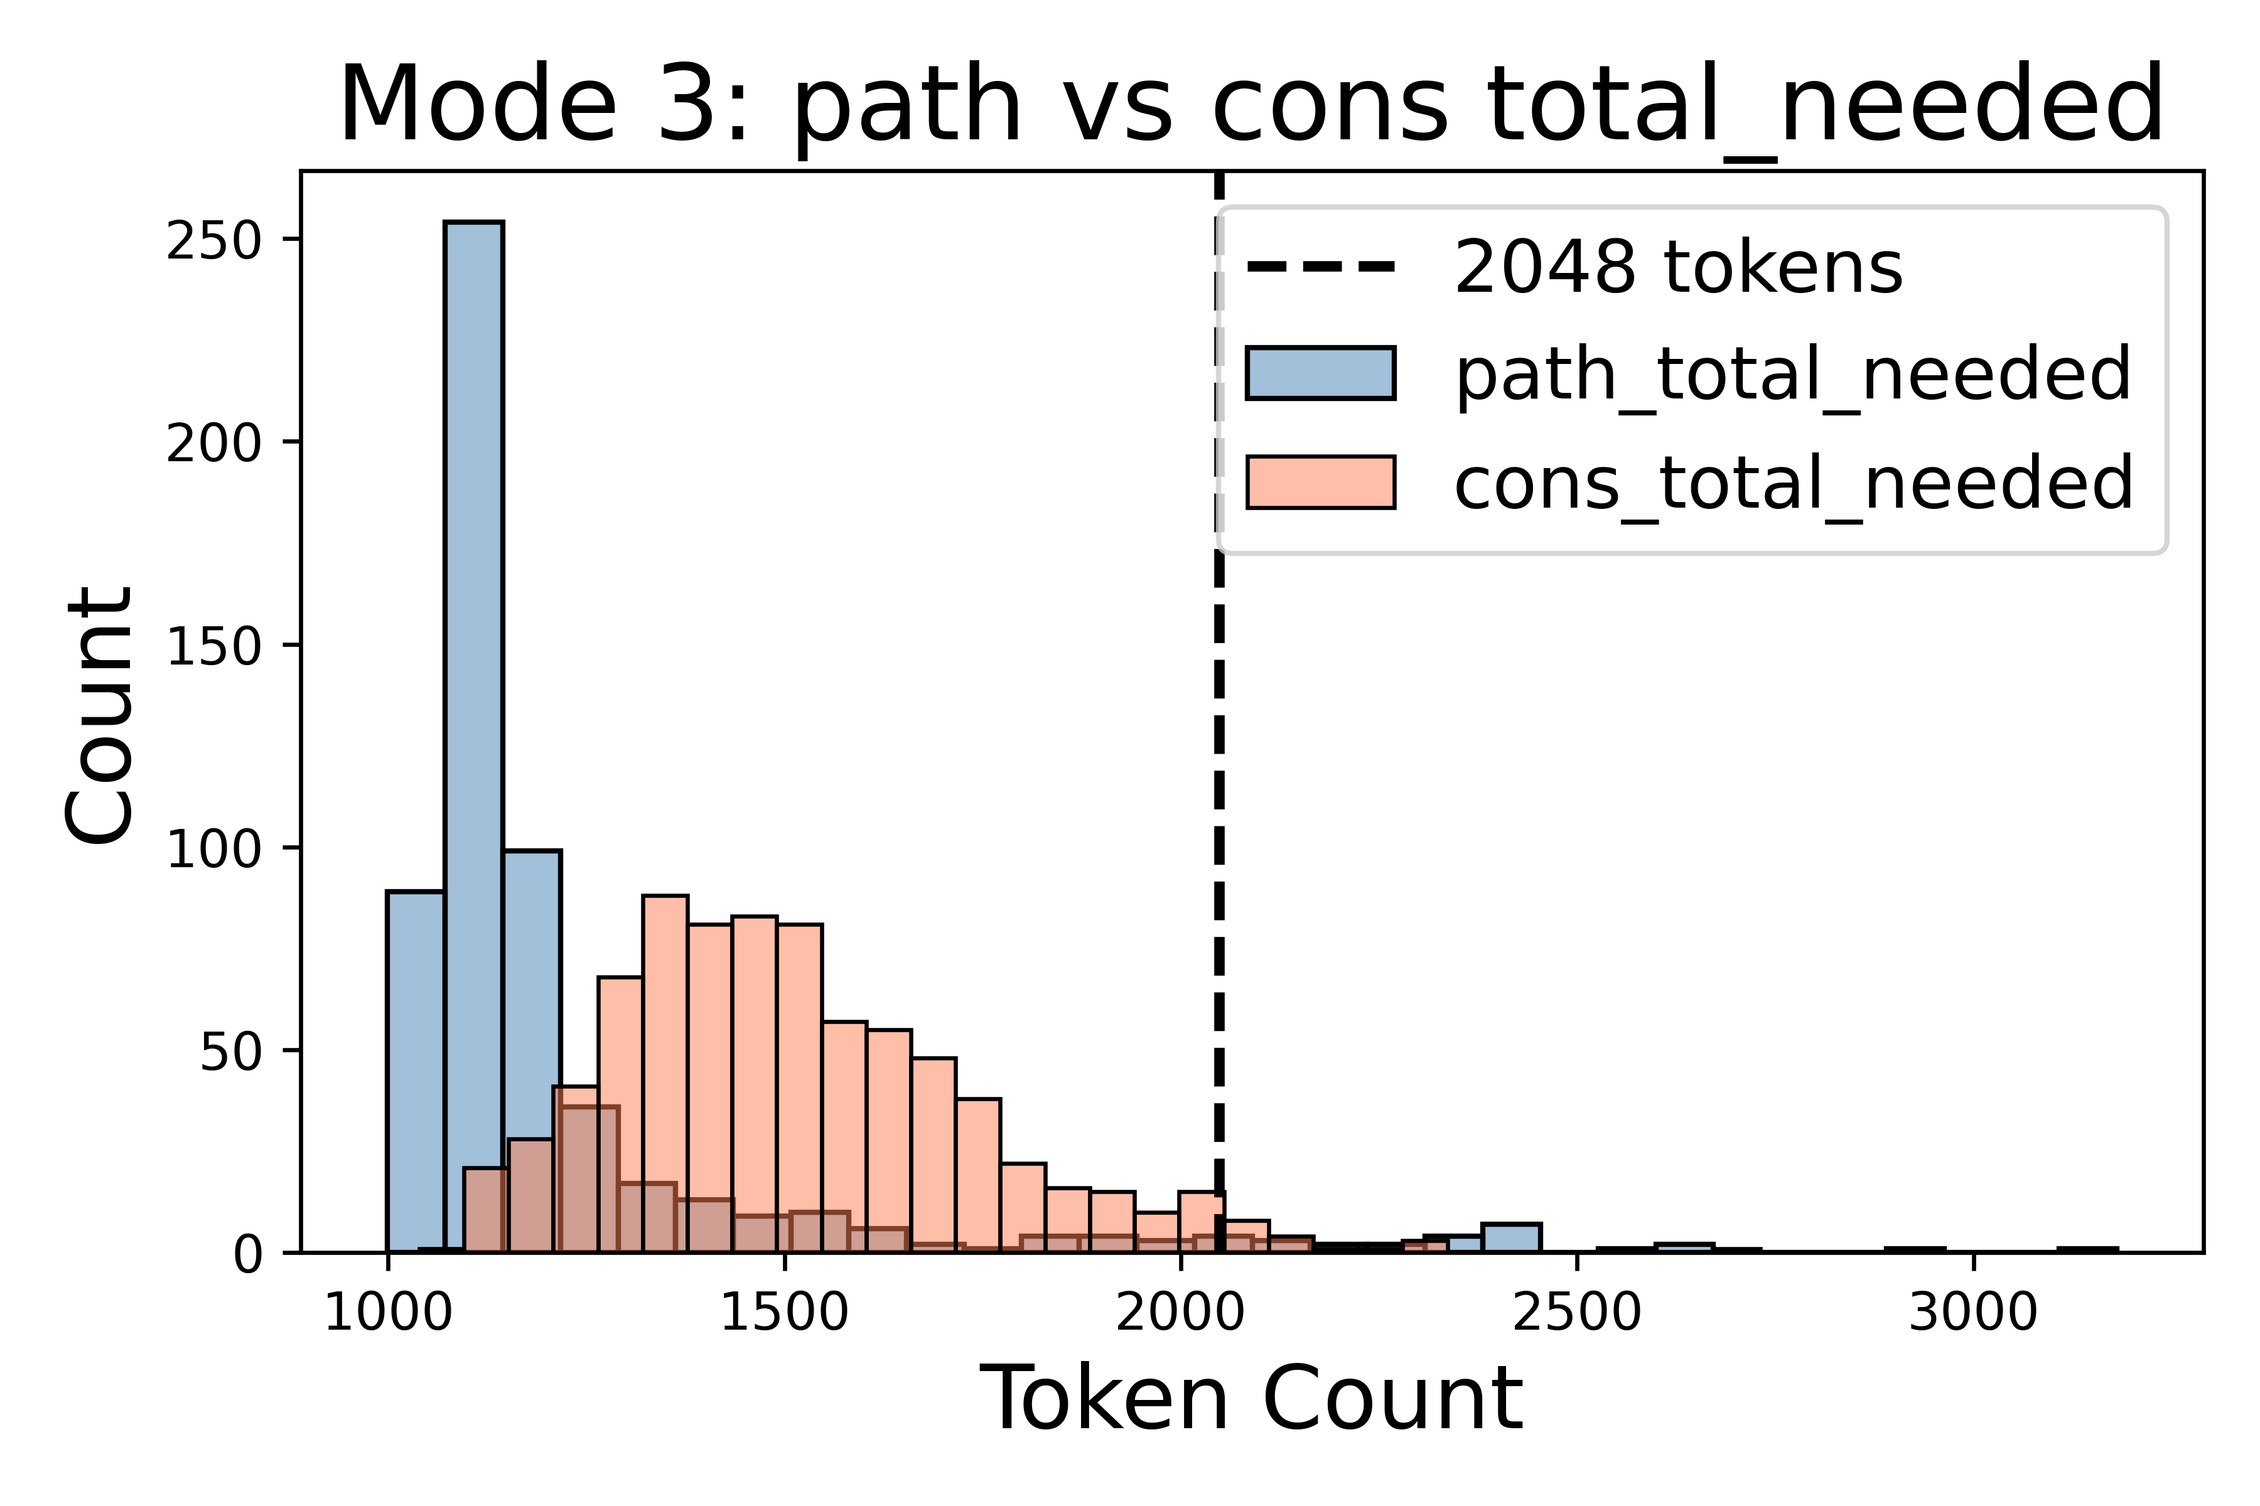
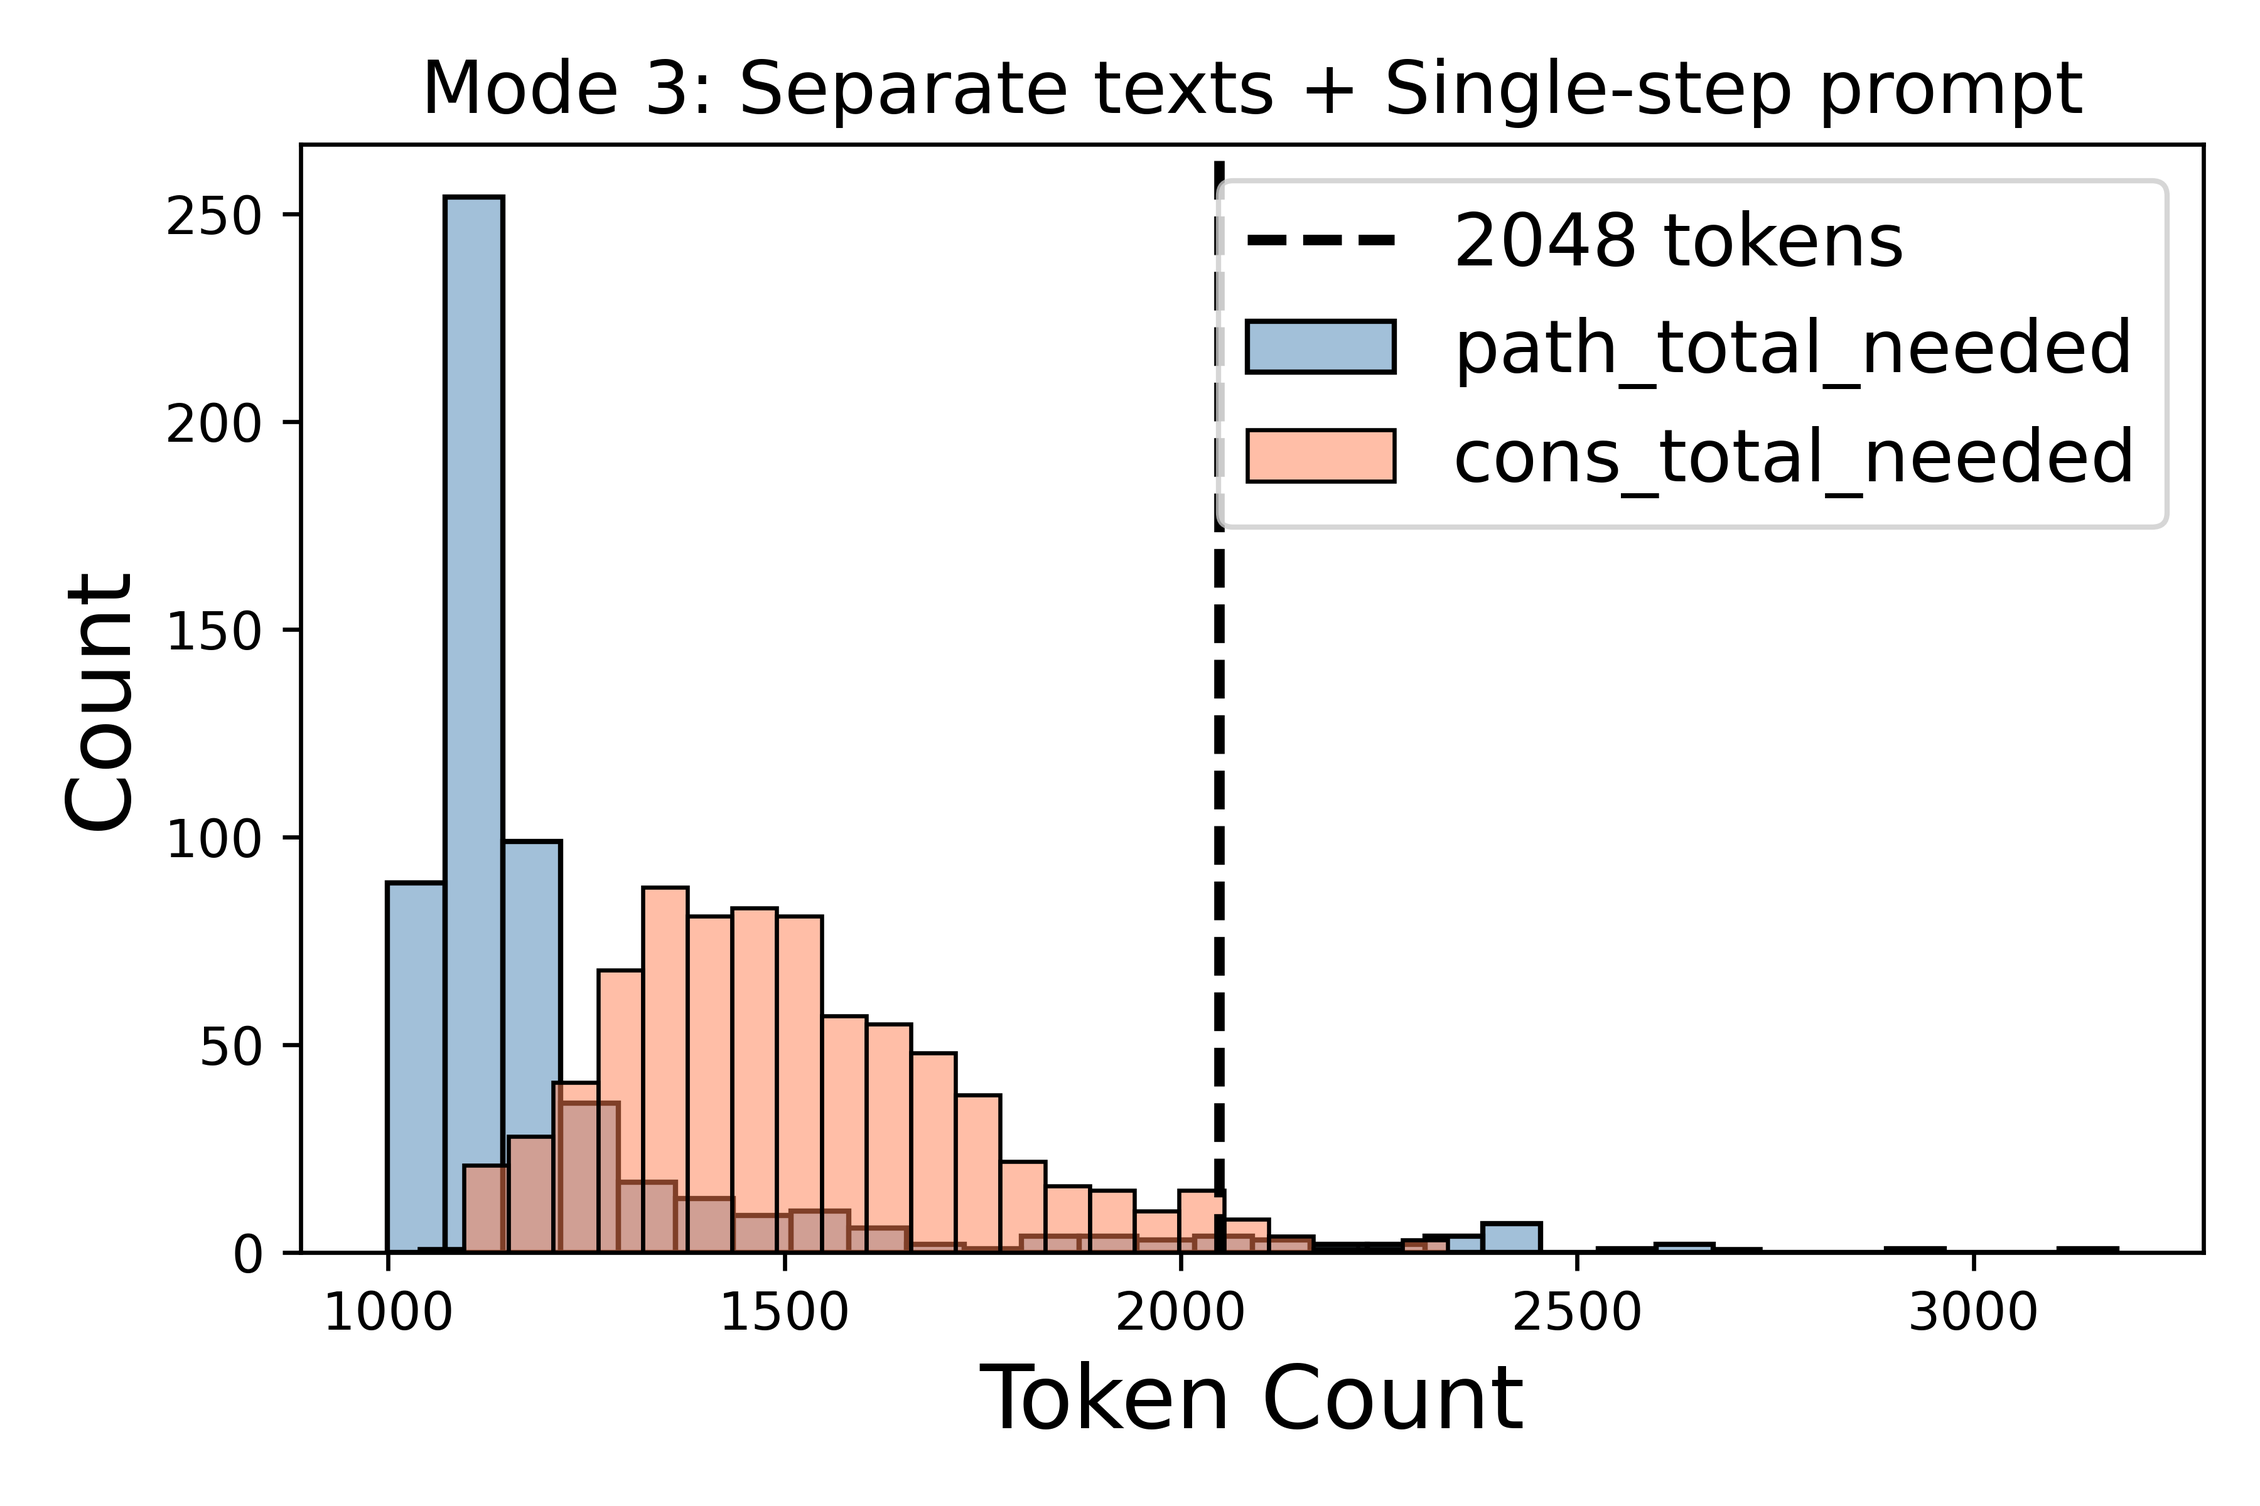
token counts for all 4 exps donegit add .

diff --git a/utils/plot_token_counts2.py b/utils/plot_token_counts2.py
@@ -43,7 +43,7 @@ import seaborn as sns
 
 def main():
     parser = argparse.ArgumentParser(
-        description="Plot token counts for different experiment modes, with adjusted overlap logic."
+        description="Plot token counts for different experiment modes, subcall-based for Mode 4."
     )
     parser.add_argument("--exp_mode", type=int, required=True, choices=[1,2,3,4],
                         help="Which experiment mode (1..4) to handle.")
@@ -53,148 +53,156 @@ def main():
                         help="Base directory where 'modeX_plots' subfolder is created.")
     args = parser.parse_args()
 
-    # Load data
     df = pd.read_csv(args.input_csv)
-
-    # Make subfolder: mode{X}_plots
     mode_str = f"mode{args.exp_mode}_plots"
     outdir = os.path.join(args.output_dir, mode_str)
     os.makedirs(outdir, exist_ok=True)
 
     if args.exp_mode == 1:
-        # Expect columns: text_tokens, total_needed
+        # Need: text_tokens, total_needed
         needed_cols = ["text_tokens","total_needed"]
         missing = [c for c in needed_cols if c not in df.columns]
         if missing:
-            print(f"[Mode 1] Missing columns: {missing} in {args.input_csv}. Aborting.")
+            print(f"[Mode 1] Missing columns: {missing}")
             return
 
-        # Individual histograms
+        # Indiv hist
         plot_hist_1col(df["text_tokens"], outdir, "text_tokens", "Mode 1: text_tokens")
-        plot_hist_1col(df["total_needed"], outdir, "total_needed", "Mode 1: total_needed")
+        plot_hist_1col(df["total_needed"], outdir, "total_needed", "Mode 1: Combined text + Single-step prompt")
 
-        # Overlap => skip per instructions:
-        print("[Mode 1] Overlap: SKIPPED (only total_needed is compared to 2048).")
+        # Overlap => skip
+        print("[Mode 1] Overlap: Skipped, only total_needed is relevant vs. 2048")
 
     elif args.exp_mode == 2:
-        # Expect extr_text_tokens, extr_total_needed, cot_text_tokens, cot_total_needed
+        # columns: extr_text_tokens, extr_total_needed, cot_text_tokens, cot_total_needed
         needed = ["extr_text_tokens","extr_total_needed","cot_text_tokens","cot_total_needed"]
         missing = [c for c in needed if c not in df.columns]
         if missing:
-            print(f"[Mode 2] Missing columns: {missing} in {args.input_csv}. Aborting.")
+            print(f"[Mode 2] Missing columns: {missing}")
             return
 
-        # Individual histograms
+        # individual
         plot_hist_1col(df["extr_text_tokens"], outdir, "extr_text_tokens", "Mode 2: extr_text_tokens")
         plot_hist_1col(df["extr_total_needed"], outdir, "extr_total_needed", "Mode 2: extr_total_needed")
         plot_hist_1col(df["cot_text_tokens"], outdir, "cot_text_tokens", "Mode 2: cot_text_tokens")
         plot_hist_1col(df["cot_total_needed"], outdir, "cot_total_needed", "Mode 2: cot_total_needed")
 
-        # Overlap => extr_total_needed vs. cot_total_needed
+        # overlap => extr_total_needed vs. cot_total_needed
         plot_hist_overlap(
             df["extr_total_needed"], df["cot_total_needed"], outdir,
             labelA="extr_total_needed", labelB="cot_total_needed",
-            title="Mode 2: extr vs cot total_needed"
+            title="Mode 2: Combined text + Two-step prompt (extraction + CoT)"
         )
 
     elif args.exp_mode == 3:
-        # We typically have subcall= path or cons, each with text_tokens, total_needed
+        # columns: subcall, text_tokens, total_needed
         needed = ["subcall","text_tokens","total_needed"]
         missing = [c for c in needed if c not in df.columns]
         if missing:
-            print(f"[Mode 3] Missing columns: {missing} in {args.input_csv}. Aborting.")
+            print(f"[Mode 3] Missing columns: {missing}")
             return
 
-        # We'll separate path rows vs cons rows
+        # separate path vs cons
         path_df = df[df["subcall"].str.contains("path", case=False, na=False)]
         cons_df = df[df["subcall"].str.contains("cons", case=False, na=False)]
 
-        # Individual hist: path text_tokens, path total_needed
         if not path_df.empty:
             plot_hist_1col(path_df["text_tokens"], outdir, "path_text_tokens", "Mode3: path_text_tokens")
             plot_hist_1col(path_df["total_needed"], outdir, "path_total_needed", "Mode3: path_total_needed")
-
-        # Individual hist: consult text_tokens, consult total_needed
         if not cons_df.empty:
             plot_hist_1col(cons_df["text_tokens"], outdir, "cons_text_tokens", "Mode3: consult_text_tokens")
             plot_hist_1col(cons_df["total_needed"], outdir, "cons_total_needed", "Mode3: consult_total_needed")
 
-        # Overlap => path total_needed vs cons total_needed
-        if (not path_df.empty) and (not cons_df.empty):
+        # overlap => path_total_needed vs cons_total_needed
+        if not path_df.empty and not cons_df.empty:
             plot_hist_overlap(
                 path_df["total_needed"], cons_df["total_needed"], outdir,
                 labelA="path_total_needed", labelB="cons_total_needed",
-                title="Mode 3: path vs cons total_needed"
+                title="Mode 3: Separate texts + Single-step prompt"
             )
 
     else:
-        # Mode 4 => separate 2-step => wide columns
-        # We want the same individual hist as before,
-        # plus a single overlap with 4 lines:
-        #    path_extr_total_needed,
-        #    cons_extr_total_needed,
-        #    path_cot_total_needed,
-        #    cons_cot_total_needed
-        neededCols = [
-            "path_extr_text_tokens","path_extr_total_needed",
-            "path_cot_text_tokens","path_cot_total_needed",
-            "cons_extr_text_tokens","cons_extr_total_needed",
-            "cons_cot_text_tokens","cons_cot_total_needed"
-        ]
-        missing = [c for c in neededCols if c not in df.columns]
-        if missing:
-            print(f"[Mode 4] Missing columns: {missing} in {args.input_csv}. Aborting.")
-            return
+        # mode 4 => subcall in {path_extraction, path_cot, cons_extraction, cons_cot}
+        # each row has either extr_... or cot_... columns
+        needed = ["subcall","num_input_characters","extr_text_tokens","extr_total_needed","cot_text_tokens","cot_total_needed"]
+        for c in needed:
+            if c not in df.columns:
+                print(f"[Mode 4] Missing column {c} in {args.input_csv}.")
+        # We'll produce hist for each subcall if present
 
-        # Single hist for each:
-        plot_hist_1col(df["path_extr_text_tokens"], outdir, "path_extr_text_tokens", "Mode4: path_extr_text_tokens")
-        plot_hist_1col(df["path_extr_total_needed"], outdir, "path_extr_total_needed", "Mode4: path_extr_total_needed")
+        # subcalls
+        path_extr_df = df[df["subcall"] == "path_extraction"]
+        path_cot_df  = df[df["subcall"] == "path_cot"]
+        cons_extr_df = df[df["subcall"] == "cons_extraction"]
+        cons_cot_df  = df[df["subcall"] == "cons_cot"]
 
-        plot_hist_1col(df["path_cot_text_tokens"], outdir, "path_cot_text_tokens", "Mode4: path_cot_text_tokens")
-        plot_hist_1col(df["path_cot_total_needed"], outdir, "path_cot_total_needed", "Mode4: path_cot_total_needed")
+        # 1) path_extraction => extr_text_tokens, extr_total_needed
+        if not path_extr_df.empty:
+            plot_hist_1col(path_extr_df["extr_text_tokens"], outdir, "path_extr_text_tokens", "Mode4: path_extraction text_tokens")
+            plot_hist_1col(path_extr_df["extr_total_needed"], outdir, "path_extr_total_needed", "Mode4: path_extraction total_needed")
 
-        plot_hist_1col(df["cons_extr_text_tokens"], outdir, "cons_extr_text_tokens", "Mode4: cons_extr_text_tokens")
-        plot_hist_1col(df["cons_extr_total_needed"], outdir, "cons_extr_total_needed", "Mode4: cons_extr_total_needed")
+        # 2) path_cot => cot_text_tokens, cot_total_needed
+        if not path_cot_df.empty:
+            plot_hist_1col(path_cot_df["cot_text_tokens"], outdir, "path_cot_text_tokens", "Mode4: path_cot text_tokens")
+            plot_hist_1col(path_cot_df["cot_total_needed"], outdir, "path_cot_total_needed", "Mode4: path_cot total_needed")
 
-        plot_hist_1col(df["cons_cot_text_tokens"], outdir, "cons_cot_text_tokens", "Mode4: cons_cot_text_tokens")
-        plot_hist_1col(df["cons_cot_total_needed"], outdir, "cons_cot_total_needed", "Mode4: cons_cot_total_needed")
+        # 3) cons_extraction => extr_text_tokens, extr_total_needed
+        if not cons_extr_df.empty:
+            plot_hist_1col(cons_extr_df["extr_text_tokens"], outdir, "cons_extr_text_tokens", "Mode4: cons_extraction text_tokens")
+            plot_hist_1col(cons_extr_df["extr_total_needed"], outdir, "cons_extr_total_needed", "Mode4: cons_extraction total_needed")
 
-        # Overlap => a single histogram with 4 lines:
-        #   path_extr_total_needed, cons_extr_total_needed, path_cot_total_needed, cons_cot_total_needed
-        path_extr = df["path_extr_total_needed"].dropna()
-        cons_extr = df["cons_extr_total_needed"].dropna()
-        path_cot  = df["path_cot_total_needed"].dropna()
-        cons_cot  = df["cons_cot_total_needed"].dropna()
+        # 4) cons_cot => cot_text_tokens, cot_total_needed
+        if not cons_cot_df.empty:
+            plot_hist_1col(cons_cot_df["cot_text_tokens"], outdir, "cons_cot_text_tokens", "Mode4: cons_cot text_tokens")
+            plot_hist_1col(cons_cot_df["cot_total_needed"], outdir, "cons_cot_total_needed", "Mode4: cons_cot total_needed")
 
+        # Overlap => single figure with 4 distributions:
+        #   path_extr_df["extr_total_needed"]
+        #   path_cot_df ["cot_total_needed"]
+        #   cons_extr_df["extr_total_needed"]
+        #   cons_cot_df ["cot_total_needed"]
         plt.figure(figsize=(6,4))
-        sns.histplot(path_extr, bins=30, kde=False, color="steelblue", alpha=0.4, label="path_extr_total_needed")
-        sns.histplot(cons_extr, bins=30, kde=False, color="green", alpha=0.4, label="cons_extr_total_needed")
-        sns.histplot(path_cot,  bins=30, kde=False, color="coral", alpha=0.4, label="path_cot_total_needed")
-        sns.histplot(cons_cot,  bins=30, kde=False, color="purple", alpha=0.4, label="cons_cot_total_needed")
+        if not path_extr_df.empty:
+            sns.histplot(path_extr_df["extr_total_needed"].dropna(), bins=30, kde=False, color="steelblue",
+                         alpha=0.4, label="path_extraction")
+        if not path_cot_df.empty:
+            sns.histplot(path_cot_df["cot_total_needed"].dropna(), bins=30, kde=False, color="red",
+                         alpha=0.4, label="path_cot")
+        if not cons_extr_df.empty:
+            sns.histplot(cons_extr_df["extr_total_needed"].dropna(), bins=30, kde=False, color="green",
+                         alpha=0.4, label="cons_extraction")
+        if not cons_cot_df.empty:
+            sns.histplot(cons_cot_df["cot_total_needed"].dropna(), bins=30, kde=False, color="purple",
+                         alpha=0.4, label="cons_cot")
 
         plt.axvline(x=2048, color='black', linestyle='--', linewidth=2, label='2048 tokens')
-        plt.title("Mode4 Overlap: extr & cot, path & cons", fontsize=20)
+        plt.title("Mode4: Separate texts + Two-step prompt",fontsize=14)
         plt.xlabel("Token Count", fontsize=17)
-        plt.ylabel("Count", fontsize=17)
+        plt.ylabel("Count",fontsize=17)
         plt.legend(fontsize=14)
         plt.tight_layout()
-        outpath = os.path.join(outdir, "overlap_path_extr_cons_extr_path_cot_cons_cot.png")
-        plt.savefig(outpath, dpi=600)
+        overlap_out = os.path.join(outdir, "overlap_mode4_subcalls_total_needed.png")
+        plt.savefig(overlap_out, dpi=600)
         plt.close()
 
-    print(f"[Mode {args.exp_mode}] Plots saved in => {outdir}")
+    print(f"[Mode {args.exp_mode}] Plots saved to => {outdir}")
 
 
 def plot_hist_1col(series, outdir, name_prefix, title):
     """
-    Single histogram with vertical line at 2048
+    Single histogram with vertical line at 2048.
     """
+    ser = series.dropna()
+    if ser.empty:
+        print(f"No data for {name_prefix}, skipping plot.")
+        return
+
     plt.figure(figsize=(6,4))
-    sns.histplot(series.dropna(), bins=30, kde=False, color="steelblue", alpha=0.7)
+    sns.histplot(ser, bins=30, kde=False, color="steelblue", alpha=0.7)
     plt.axvline(x=2048, color='black', linestyle='--', linewidth=2, label='2048 tokens')
-    plt.title(title,fontsize=20)
+    plt.title(title,fontsize=14)
     plt.xlabel(name_prefix,fontsize=17)
-    plt.ylabel("Count", fontsize=17)
+    plt.ylabel("Count",fontsize=17)
     plt.legend(fontsize=14)
     plt.tight_layout()
     outpath = os.path.join(outdir, f"{name_prefix}.png")
@@ -203,21 +211,29 @@ def plot_hist_1col(series, outdir, name_prefix, title):
 
 def plot_hist_overlap(seriesA, seriesB, outdir, labelA="A", labelB="B", title="Overlap"):
     """
-    Overlap histogram for two series, each with vertical line at 2048
+    Overlap histogram for two series
     """
+    a_drop = seriesA.dropna()
+    b_drop = seriesB.dropna()
+    if a_drop.empty and b_drop.empty:
+        print(f"No data for overlap {labelA} vs {labelB}, skipping.")
+        return
+
     plt.figure(figsize=(6,4))
-    sns.histplot(seriesA.dropna(), bins=30, kde=False, color="steelblue", alpha=0.5, label=labelA)
-    sns.histplot(seriesB.dropna(), bins=30, kde=False, color="coral", alpha=0.5, label=labelB)
+    if not a_drop.empty:
+        sns.histplot(a_drop, bins=30, kde=False, color="steelblue", alpha=0.5, label=labelA)
+    if not b_drop.empty:
+        sns.histplot(b_drop, bins=30, kde=False, color="coral", alpha=0.5, label=labelB)
+
     plt.axvline(x=2048, color='black', linestyle='--', linewidth=2, label='2048 tokens')
-    plt.title(title,fontsize=20)
-    plt.xlabel("Token Count",fontsize=17)
+    plt.title(title,fontsize=14)
+    plt.xlabel("Token Count", fontsize=17)
     plt.ylabel("Count",fontsize=17)
     plt.legend(fontsize=14)
     plt.tight_layout()
     outpath = os.path.join(outdir, f"overlap_{labelA}_vs_{labelB}.png")
     plt.savefig(outpath, dpi=600)
     plt.close()
-
 
 if __name__ == "__main__":
     main()
